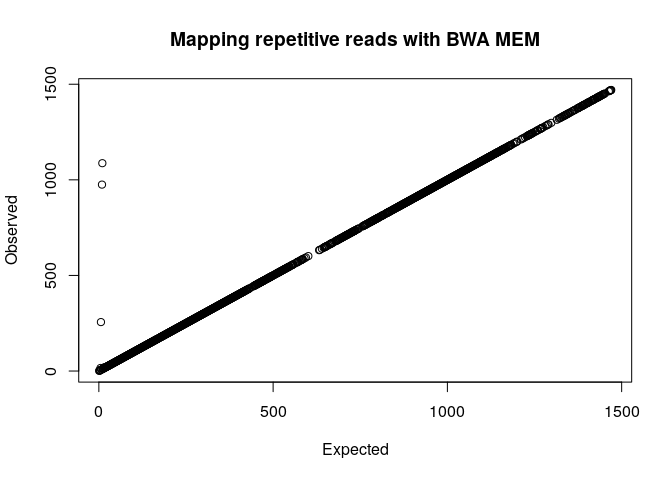
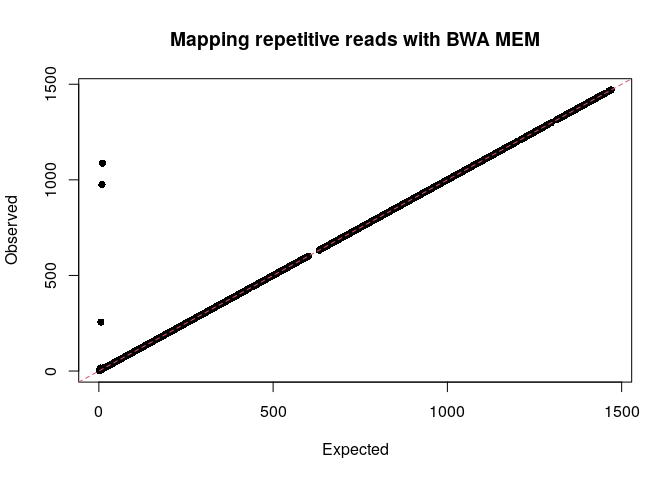
Update plot

diff --git a/bwa/README.md b/bwa/README.md
@@ -99,14 +99,14 @@ coordinates smaller than the reported location.
 
     ## @SQ  SN:ref  LN:1515200
     ## @PG  ID:bwa  PN:bwa  VN:0.7.17-r1188 CL:bwa mem l100_r100_ref.fa l100_r100_reads.fa
-    ## 1    0   ref 201 60  100M    *   0   0   ATTACGCTTCGCGTTTACATTGACCCAGAGCTGTTTTACCCAGAGTAGCTGTGGGTCACATGGATATCGTTGTTTGTTACTCGGCTACGCCGCTGTGTAC    *   NM:i:0  MD:Z:100    AS:i:100    XS:i:0
-    ## 2    0   ref 501 0   100M    *   0   0   CCTGAGAACTTAGCCAACATGCACTAGGCCGGGTTAAGCCACCGGGCAATTGACTCCAGACGTGGGAGGACAGAACATCTCGCTTTGGAGTCGCGTTAAT    *   NM:i:0  MD:Z:100    AS:i:100    XS:i:100    XA:Z:ref,+801,100M,0;
-    ## 3    0   ref 1701    0   100M    *   0   0   ATCGGGCTGCGTGGATAACAAGCTTCAGTGCAATACGCAATAGGCACAGTTAGCGACATTCCCCATCAGTAATCGAGCGTGTACAAGATCGGCCGAAGAT    *   NM:i:0  MD:Z:100    AS:i:100    XS:i:100    XA:Z:ref,+1101,100M,0;ref,+1401,100M,0;
-    ## 4    0   ref 2901    0   100M    *   0   0   TTGCATGCCCCAGAGCGACCCCAGTCCTGAACCGGCCCAGCCCCGGGCACTATCCAATCAAAATCTGGTGCGACAACGCAGGTCGGGTTGCTTAACGGAT    *   NM:i:0  MD:Z:100    AS:i:100    XS:i:100    XA:Z:ref,+2301,100M,0;ref,+2601,100M,0;ref,+2001,100M,0;
-    ## 5    0   ref 3801    0   100M    *   0   0   TGAGTATATTAACTAATCACAGGATGAGGCGCCCCTAAAGGTACTCCATTTTAGCTAGGCACACCATAATCCGTTAGGTCGCTGTCGGTCTACATTGCGG    *   NM:i:0  MD:Z:100    AS:i:100    XS:i:100    XA:Z:ref,+3201,100M,0;ref,+4401,100M,0;ref,+3501,100M,0;ref,+4101,100M,0;
-    ## 6    0   ref 5901    0   100M    *   0   0   TGACACGTAACACCGCATAACCTGTCAGATCAATATTAAAGAACGTCGACTACCCCGCCCTCATATGACTGCTCCGGGGGCACTCTCTGTAGCAGCCCCA    *   NM:i:0  MD:Z:100    AS:i:100    XS:i:100    XA:Z:ref,+5001,100M,0;ref,+5601,100M,0;ref,+4701,100M,0;ref,+6201,100M,0;ref,+5301,100M,0;
-    ## 7    0   ref 7401    0   100M    *   0   0   TTATGCGCCCTTGGTCGCACTAAAAGAACGACCGATGGGCACAAAGTACATGGATCACTTGAATGGACTAAAGAAGGTCTCGTCCTCACCGTTACGGAGC    *   NM:i:0  MD:Z:100    AS:i:100    XS:i:100
-    ## 8    0   ref 9201    0   100M    *   0   0   ACACGTGGGCGATAGCTGGCAGACGTGCCACCTTCTATGCTGACTTGGCATGCTCGGCAACCGTTAGCCTTGAGAACAATACGCCAAGAAGGCGTGCAGC    *   NM:i:0  MD:Z:100    AS:i:100    XS:i:100
+    ## 1    0   ref 201 60  100M    *   0   0   ATATGTCCGAGGAATGCTACGCGTTGTTTACCAGCTAATCCCGATGCCAAGGGAAACCCGAAGTTAGGGCAGAGGCAACAAACGACACTAGCTTGACATG    *   NM:i:0  MD:Z:100    AS:i:100    XS:i:0
+    ## 2    0   ref 501 0   100M    *   0   0   TTTAACCCGCGATACGGTATCGGATTTACGTACGGGTCACCTGATACAGAAGCGTAGCATTTATACACCGGGCGGAATTGATTGCCTAACGACCAGCGCT    *   NM:i:0  MD:Z:100    AS:i:100    XS:i:100    XA:Z:ref,+801,100M,0;
+    ## 3    0   ref 1701    0   100M    *   0   0   CCGAGGCCCACATGACCTCGTGAACTCTAAGAGGGCTTCTTAAGTAGGCTGCTCGGGGACTTAGACCAATACCCGTGGGAGATCGATTTGCGCGAATTAC    *   NM:i:0  MD:Z:100    AS:i:100    XS:i:100    XA:Z:ref,+1101,100M,0;ref,+1401,100M,0;
+    ## 4    0   ref 2901    0   100M    *   0   0   AGCACTCGTTTCAACCAGAATCGACCAACTAGTGACATCCGGGTTAGCTGTTTCAGCAGATACGAGGCCCGACCTAAACGAAAATTGATGGCTTCTTCTA    *   NM:i:0  MD:Z:100    AS:i:100    XS:i:100    XA:Z:ref,+2301,100M,0;ref,+2601,100M,0;ref,+2001,100M,0;
+    ## 5    0   ref 3801    0   100M    *   0   0   AACTCGGTCAGGTTCGCTAGCGCACAGTGCAGTGAAGGACATGGTCAGGAAGGATGCCGTGTTGCTATAGCCTCAATACAACACAACAGAGGTGATAACT    *   NM:i:0  MD:Z:100    AS:i:100    XS:i:100    XA:Z:ref,+3201,100M,0;ref,+4401,100M,0;ref,+3501,100M,0;ref,+4101,100M,0;
+    ## 6    0   ref 5901    0   100M    *   0   0   GCGTAGGGGAAGCTTCTGTGTCGCATCACAGTTGCGTTTGCTAGTGCGATGAGACTAGCGGTCCCCAATATGCCTGTATGCGAGCCAGTAACTTCCCATG    *   NM:i:0  MD:Z:100    AS:i:100    XS:i:100    XA:Z:ref,+5001,100M,0;ref,+5601,100M,0;ref,+4701,100M,0;ref,+6201,100M,0;ref,+5301,100M,0;
+    ## 7    0   ref 7401    0   100M    *   0   0   ATTACGCTTCGCGTTTACATTGACCCAGAGCTGTTTTACCCAGAGTAGCTGTGGGTCACATGGATATCGTTGTTTGTTACTCGGCTACGCCGCTGTGTAC    *   NM:i:0  MD:Z:100    AS:i:100    XS:i:100
+    ## 8    0   ref 9201    0   100M    *   0   0   GAGGGAAATGGTATCCCCATCATGGTTGGTTTTGAGAGTGGATCACAGCTAATTAAAAAAGACATCGAGGCTCAGTTTCGATAGTAGTAGGTGGCCTAGG    *   NM:i:0  MD:Z:100    AS:i:100    XS:i:100
 
 We will repeat the mapping step 100 times to test whether reported loci
 are randomly selected. We have also set `-h` to 20 to report up to 20
@@ -123,7 +123,7 @@ chosen.
        bwa mem -h 20 l${l}_r${r}_ref.fa l${l}_r${r}_reads.fa 2> /dev/null
     done | grep ^20 | sort | uniq -c
 
-    ##     100 20   0   ref 62301   0   100M    *   0   0   ACTCTGACGCCCAAATATAAAGGAAGCGGCGTGCGATGAGAGTGCGTGGTGCGTTGAATGCCTCTAGTGCGGAATGGGCCGACTGCGGGTGTCGGCGCAC    *   NM:i:0  MD:Z:100    AS:i:100    XS:i:100    XA:Z:ref,+57801,100M,0;ref,+57201,100M,0;ref,+61701,100M,0;ref,+59901,100M,0;ref,+59601,100M,0;ref,+61401,100M,0;ref,+58101,100M,0;ref,+58401,100M,0;ref,+60201,100M,0;ref,+59301,100M,0;ref,+61101,100M,0;ref,+62001,100M,0;ref,+59001,100M,0;ref,+60501,100M,0;ref,+62601,100M,0;ref,+58701,100M,0;ref,+60801,100M,0;ref,+57501,100M,0;ref,+62901,100M,0;
+    ##     100 20   0   ref 62301   0   100M    *   0   0   TACTGCCACAGCGCCAGTATGTCTGTTTCGTGAGAAAGTACTTTTTGCTTCCCTAAGACGTTGAAGCAGGCAGGTGAGTTGTAGCCACAGTCCATATGCT    *   NM:i:0  MD:Z:100    AS:i:100    XS:i:100    XA:Z:ref,+57801,100M,0;ref,+57201,100M,0;ref,+61701,100M,0;ref,+59901,100M,0;ref,+59601,100M,0;ref,+61401,100M,0;ref,+58101,100M,0;ref,+58401,100M,0;ref,+60201,100M,0;ref,+59301,100M,0;ref,+61101,100M,0;ref,+62001,100M,0;ref,+59001,100M,0;ref,+60501,100M,0;ref,+62601,100M,0;ref,+58701,100M,0;ref,+60801,100M,0;ref,+57501,100M,0;ref,+62901,100M,0;
 
 We will generate a read that repeats up to 505 times. The `-c` parameter
 will skip regions that occur 500 times by default and thus a read will
@@ -222,7 +222,8 @@ Save mapping profile to `chrx.tsv`.
 Plot mapping profile.
 
     my_table <- read.delim('chrx.tsv', header = FALSE)
-    plot(my_table, xlab = "Expected", ylab = "Observed", main = "Mapping repetitive reads with BWA MEM")
+    plot(my_table, xlab = "Expected", ylab = "Observed", main = "Mapping repetitive reads with BWA MEM", pch = 16)
+    abline(0, 1, lty = 2, col = 2)
 
 ![](img/exp_vs_obs-1.png)
 
